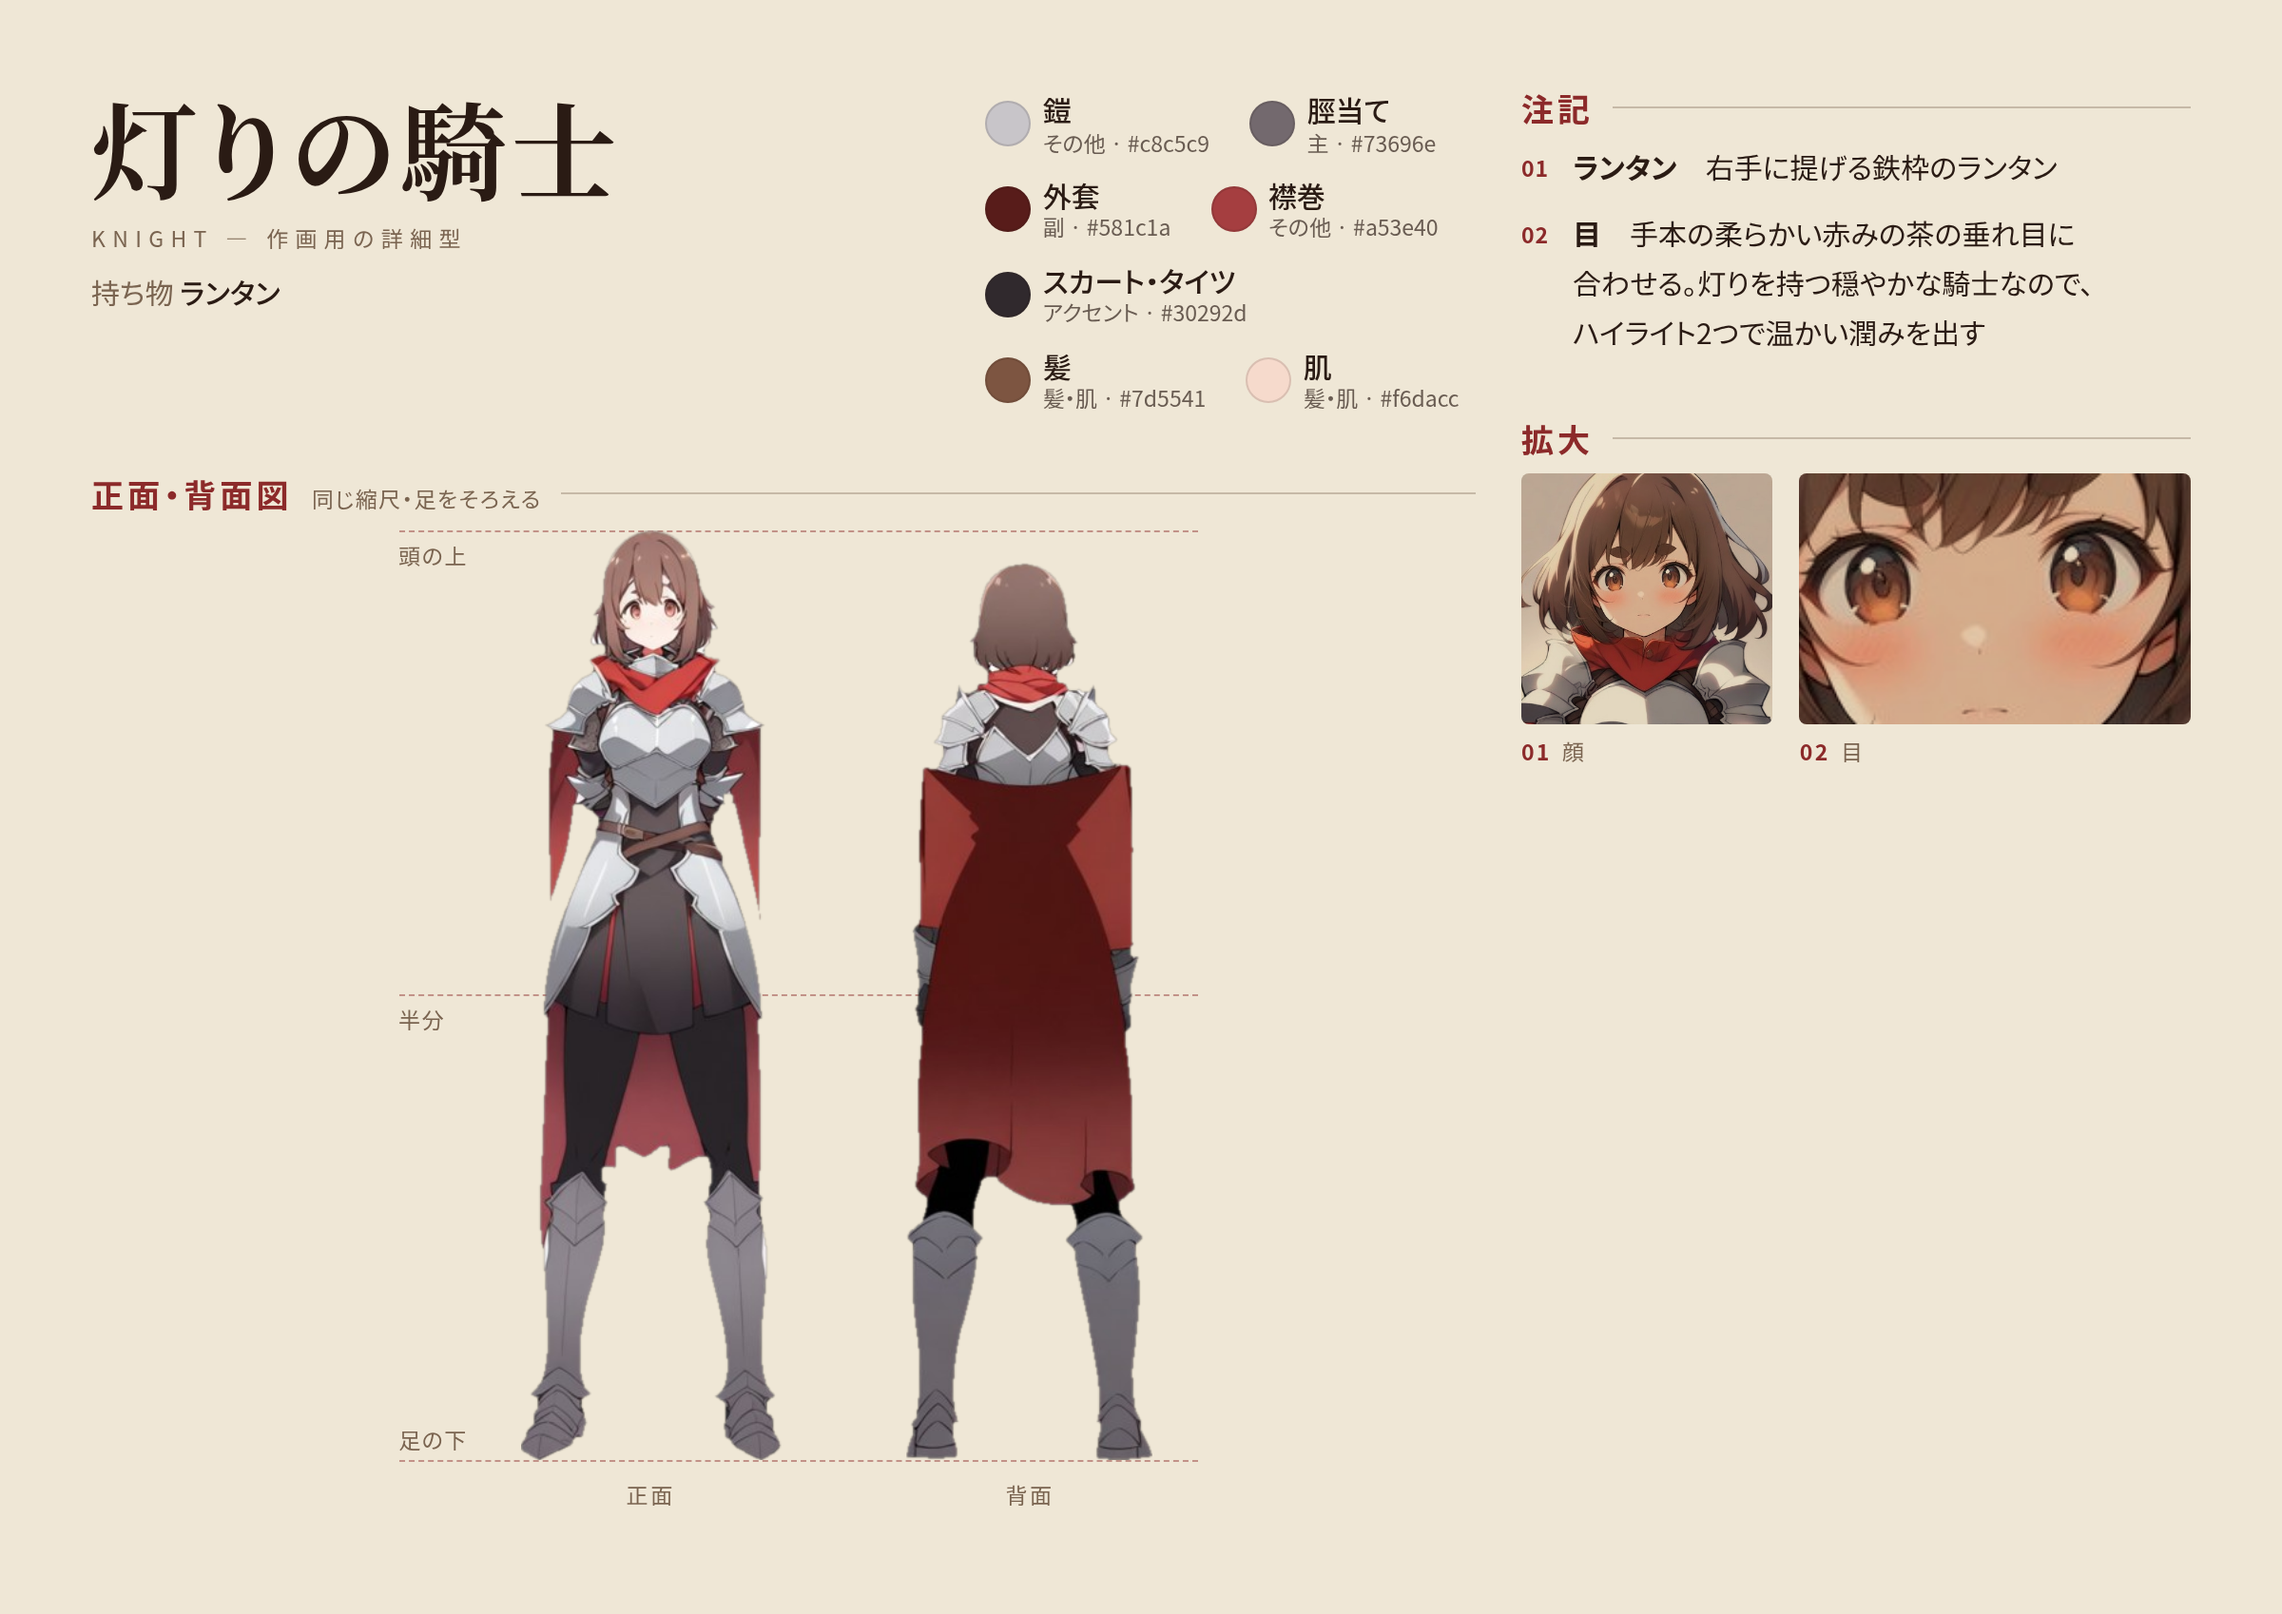
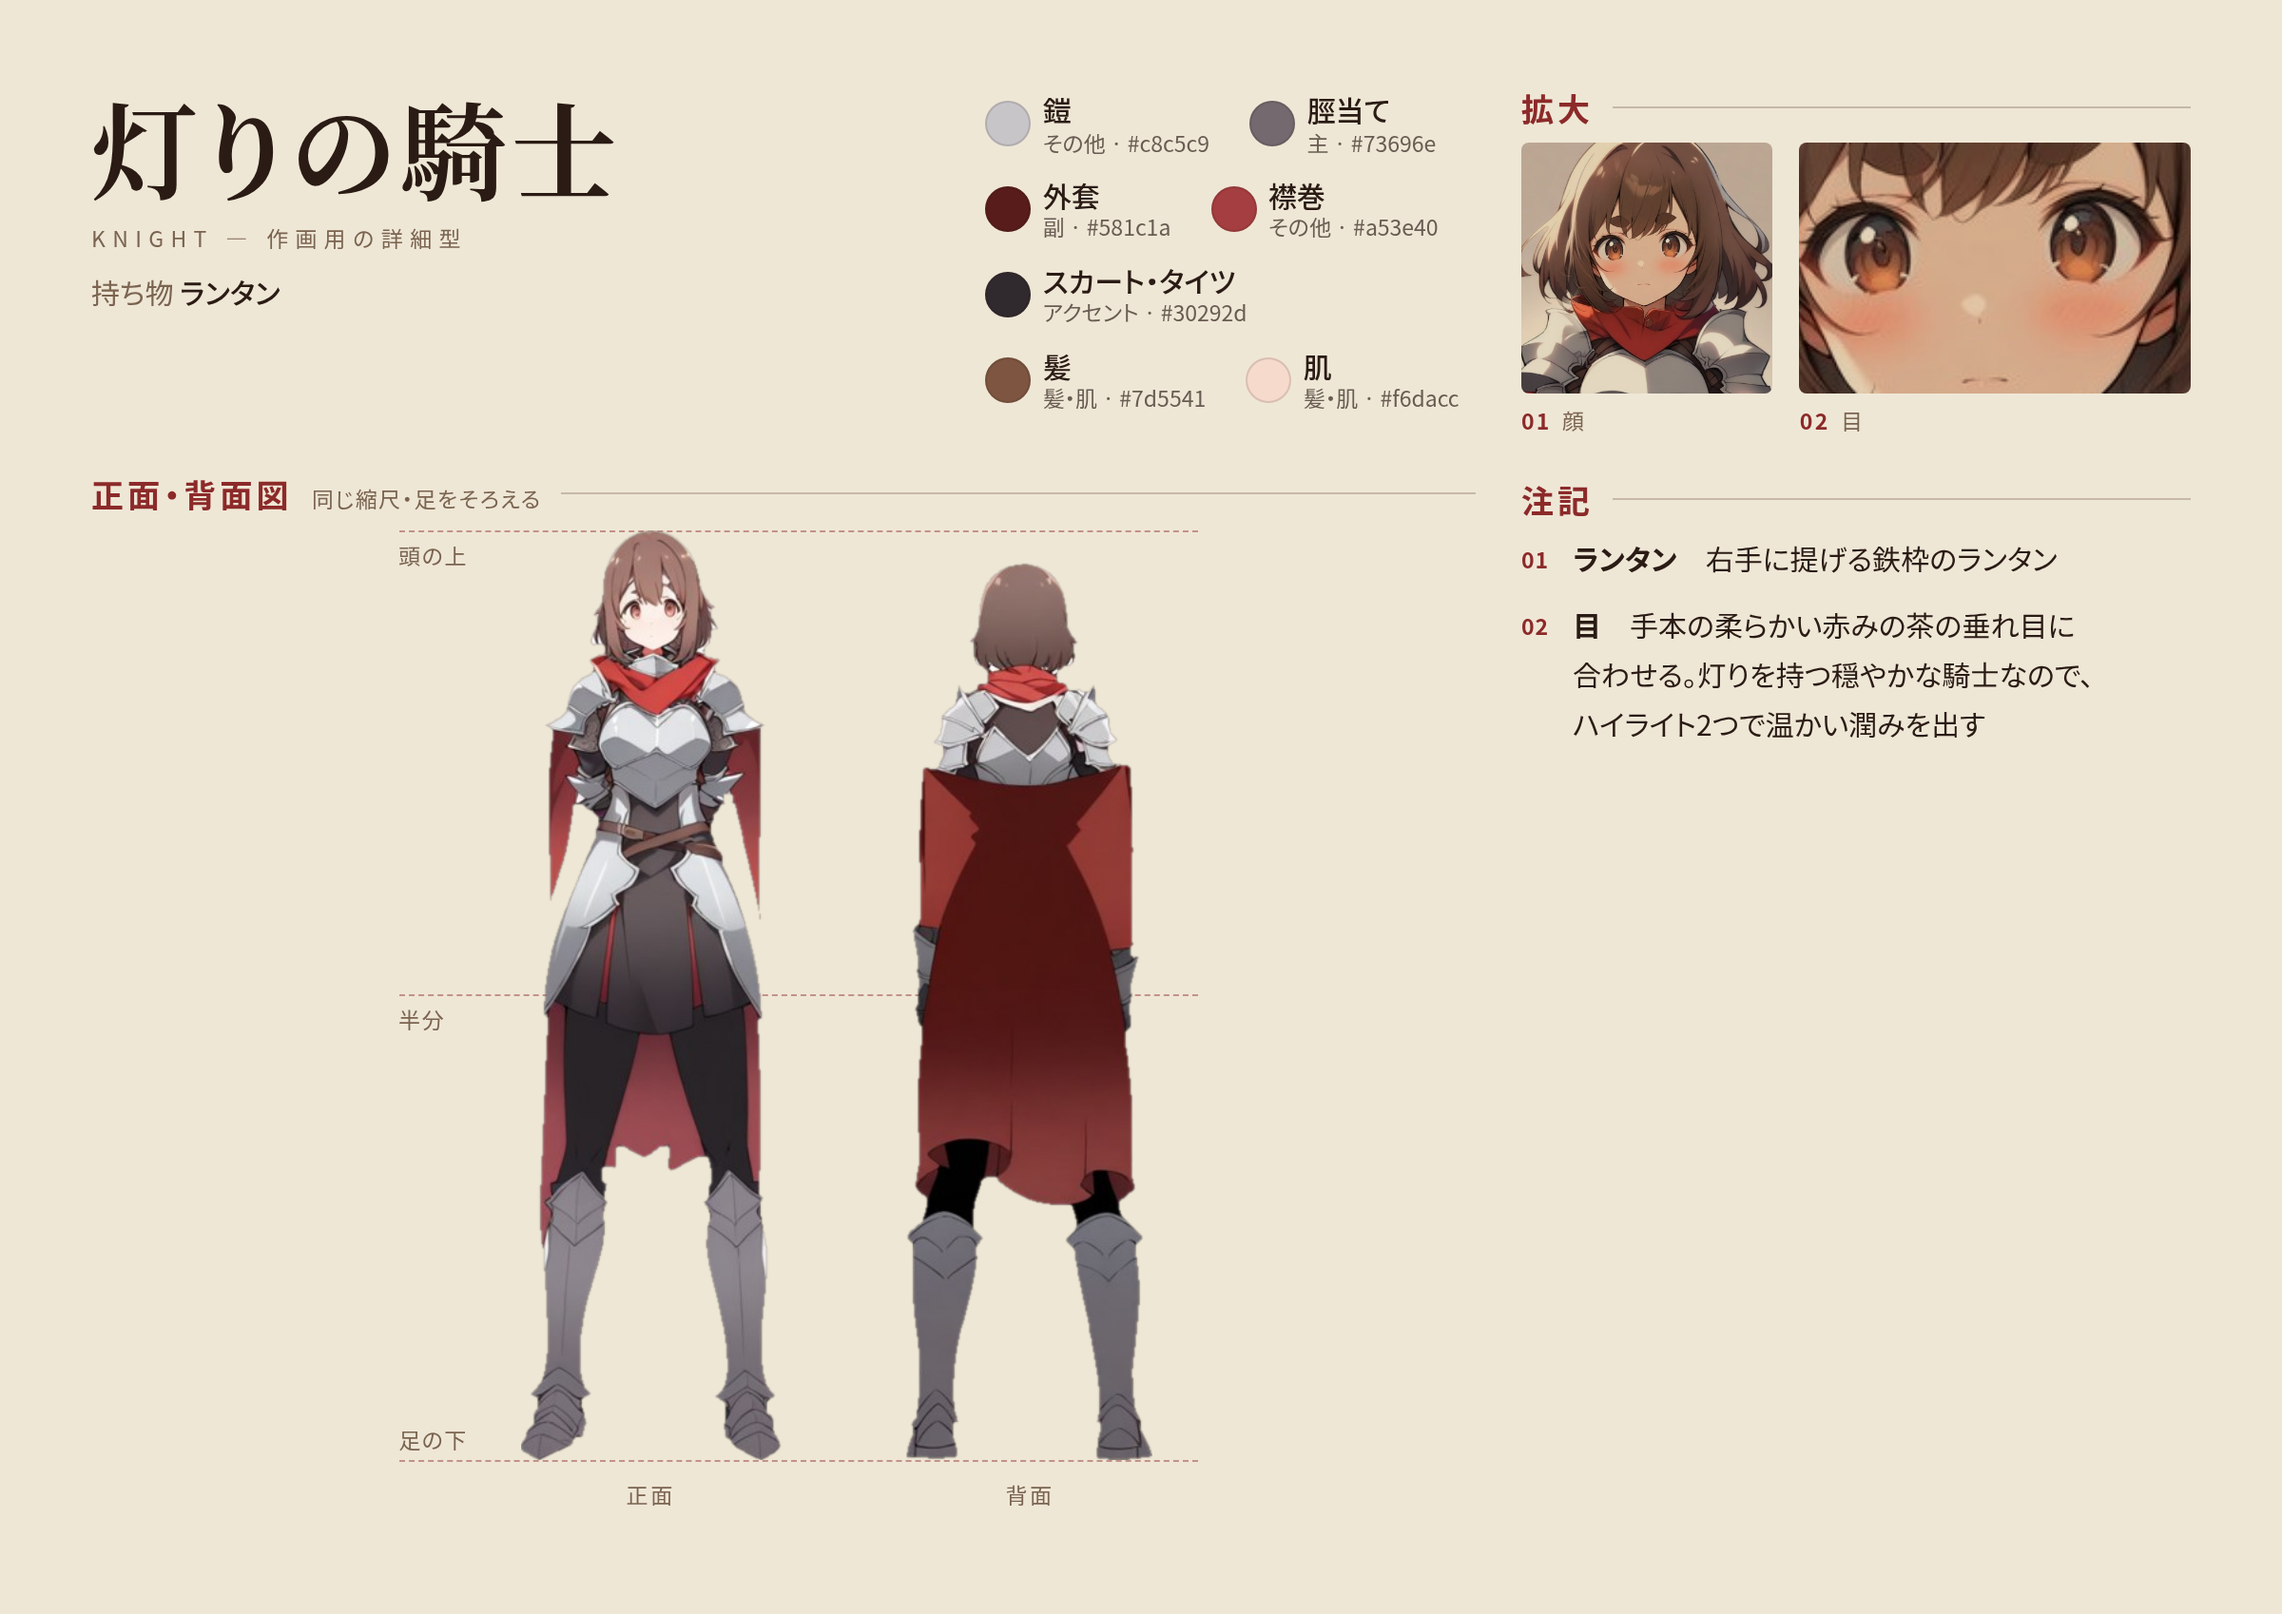
設定画集の総覧型の注記を読点か項目名で切り、作画用の拡大を注記の上に置く
Claude-Session: https://claude.ai/code/session_01SckJ2FC4PhB88prMhjDTEV

Changed region(s): [[0.6562, 0.0624, 0.9688, 0.4682]]

diff --git a/tools/gen/sheetlayout.py b/tools/gen/sheetlayout.py
@@ -296,7 +296,14 @@ def _panel_html(pn, ctx):
         notes = ctx["notes"]
         if pn.get("brief"):   # 総覧では各注記の最初の一文だけにする。全文は作画用の版に載せる（狭い欄に全文を詰めると欄からあふれた）
             notes = [t.split("。")[0] for t in notes]
-            notes = [t if len(t) <= 24 else t[:23] + "…" for t in notes]
+            # 長い文は最初の読点までにし、それでも長ければ項目名だけにする（「…」で切ると文の途中で切れて見えた）
+            def cut(t):
+                k, _, v = t.partition(": ")
+                if len(v) <= 24:
+                    return t
+                head = v.split("、")[0]
+                return f"{k}: {head}" if len(head) <= 24 else k
+            notes = [cut(t) for t in notes]
         lis = "".join(f'<li><span><b>{e(t.split(": ", 1)[0])}</b>　{e(t.split(": ", 1)[1] if ": " in t else "")}</span></li>' for t in notes)
         if pn.get("columns"):
             # 2段に組み、長い注記（40字より長い）と、2項目以下のときは全幅の1段にする。段組みに流すと左右の段の行数が偏った
